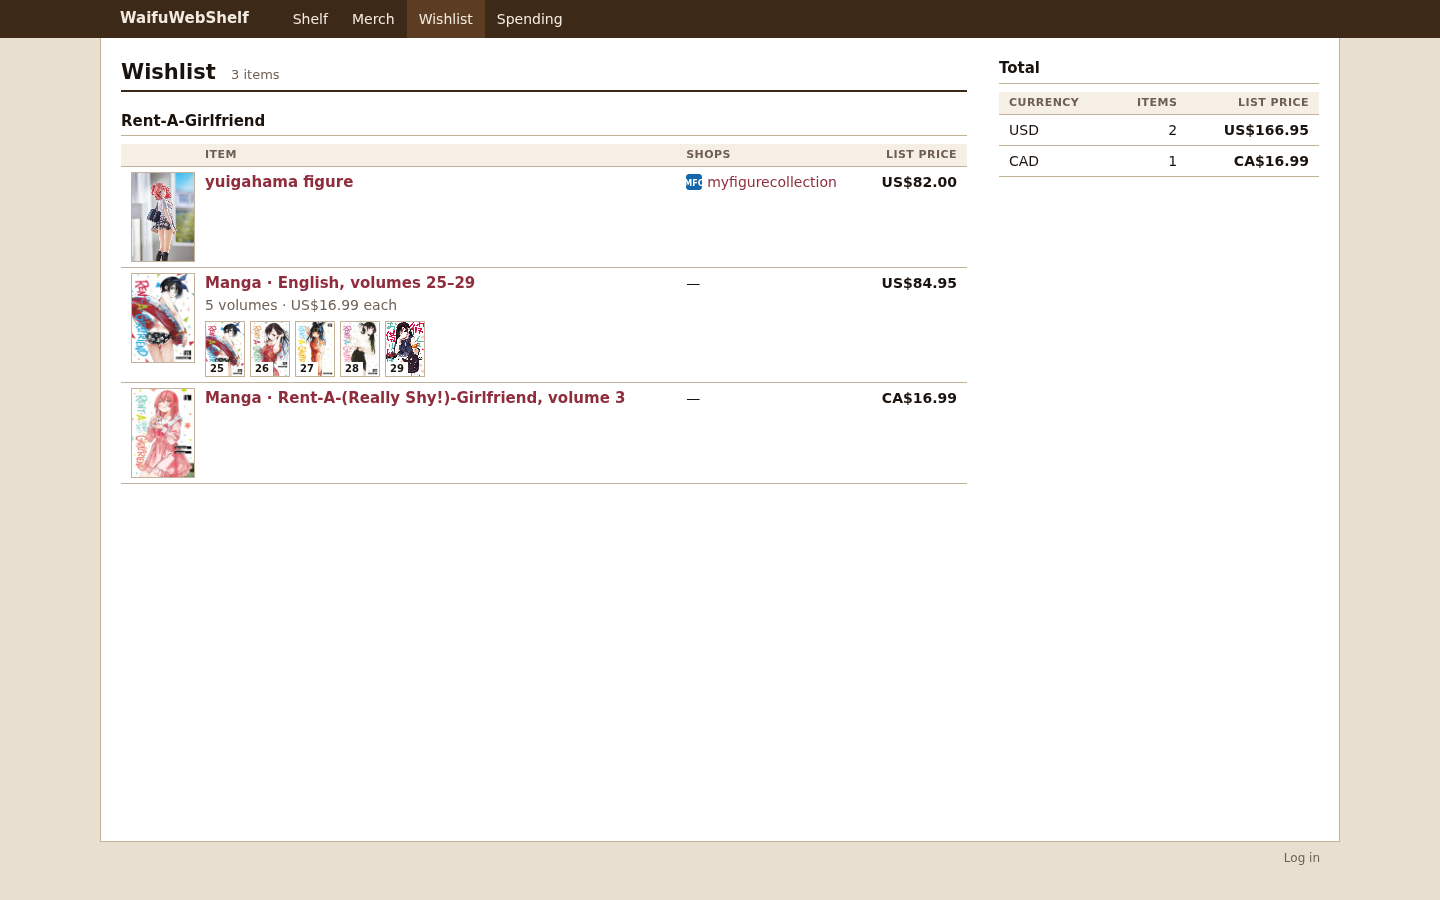
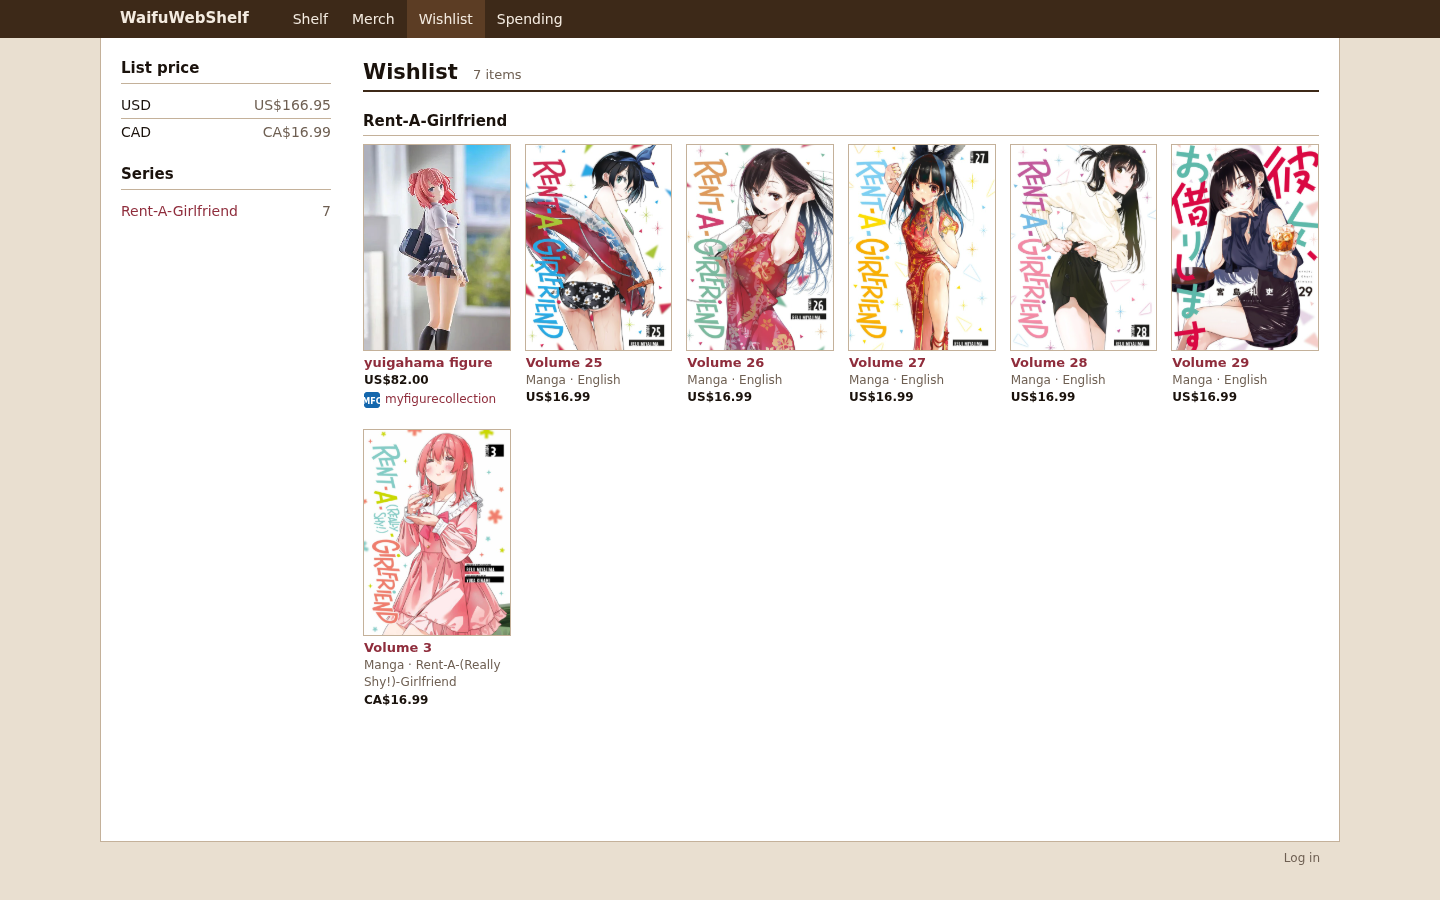
Show the wishlist as one grid of picture tiles
Each wanted volume and merch piece is the same size tile with its
name and list price under it. Totals and the series list sit in the
left column, as on series pages.

Changed region(s): [[0.0625, 0.0622, 0.9375, 0.7778], [0.25, 0.0622, 0.3438, 0.0933]]

diff --git a/templates/wishlist.html b/templates/wishlist.html
@@ -1,70 +1,98 @@
 {{define "wishlist"}}
 {{template "header" .}}
-<div class="cols">
-  <div>
-    <div class="box">
-      <div class="bar">
-        <h1>Wishlist <span class="count">{{.Data.Count}} {{if eq .Data.Count 1}}item{{else}}items{{end}}</span></h1>
-      </div>
-      {{if not .Data.Groups}}<p class="muted">Nothing on the list.</p>{{end}}
-    </div>
-    {{range .Data.Groups}}
-    <div class="box">
-      <div class="bar">
-        <h2><a href="/series/{{.SeriesSlug}}">{{.SeriesName}}</a></h2>
-        {{if $.SignedIn}}
-        <span>
-          <a href="/admin/series/{{.SeriesID}}/wishlist/new?kind=volumes">Add volume</a>
-          · <a href="/admin/series/{{.SeriesID}}/wishlist/new?kind=merch">Add merch</a>
-        </span>
-        {{end}}
-      </div>
-      <div class="table-wrap">
-        <table class="catalog wish-table">
-          <thead><tr><th></th><th>Item</th><th>Shops</th><th class="num">List price</th></tr></thead>
-          <tbody>
-            {{range .Items}}
-            <tr>
-              <td class="catalog-cover">
-                <a href="/wishlist/{{.ID}}">{{if .Picture}}<img src="{{imageURL .Picture}}" alt="" loading="lazy">{{else if eq .Kind "volumes"}}<span class="cover-text">Vol. {{.RemainLabel}}</span>{{else}}<span class="cover-letter">{{printf "%.1s" .Name}}</span>{{end}}</a>
-              </td>
-              <td>
-                {{if eq .Kind "merch"}}
-                <a class="name" href="/wishlist/{{.ID}}">{{.Name}}</a>
-                {{with merchSub .Name .MerchKind .Quantity}}<p class="muted">{{.}}</p>{{end}}
-                {{else}}
-                <a class="name" href="/wishlist/{{.ID}}">{{.LineTitle}}, {{.VolumesLabel}}</a>
-                {{if gt .RemainCount 1}}<p class="muted">{{.RemainCount}} volumes{{with .Each}} · {{.}} each{{end}}</p>{{end}}
-                {{if gt (len .Volumes) 1}}{{template "wish_volumes" .Volumes}}{{end}}
-                {{end}}
-                {{if .Notes}}<p class="notes muted">{{.Notes}}</p>{{end}}
-                {{if $.SignedIn}}<p><a href="/admin/wishlist/{{.ID}}/edit">Edit</a></p>{{end}}
-              </td>
-              <td>{{if .Links}}{{template "links_list" .Links}}{{else}}—{{end}}</td>
-              <td class="num strong">{{if .MSRPValid}}{{amount .MSRPAmount .Currency}}{{else}}—{{end}}</td>
-            </tr>
-            {{end}}
-          </tbody>
-        </table>
-      </div>
-    </div>
+<div class="cols rail-left">
+<aside class="rail">
+  {{if .Data.Totals}}
+  <div class="box">
+    <h2 class="bar">List price</h2>
+    <ul class="toc">
+      {{range .Data.Totals}}<li>{{.Currency}}<span>{{if .WithMSRP}}{{amount .MSRPCents .Currency}}{{else}}—{{end}}</span></li>{{end}}
+    </ul>
+    {{range .Data.Totals}}{{if .Incomplete}}<p class="note">{{.Currency}}: {{.MissingMSRP}} of {{.ItemCount}} have no list price.</p>{{end}}{{end}}
+  </div>
+  {{end}}
+  {{if .Data.Groups}}
+  <div class="box">
+    <h2 class="bar">Series</h2>
+    <ul class="toc">
+      {{range .Data.Groups}}<li><a href="#{{.SeriesSlug}}">{{.SeriesName}}</a><span>{{.Count}}</span></li>{{end}}
+    </ul>
+  </div>
+  {{end}}
+</aside>
+<div>
+<div class="box">
+  <div class="bar">
+    <h1>Wishlist <span class="count">{{.Data.Count}} {{if eq .Data.Count 1}}item{{else}}items{{end}}</span></h1>
+  </div>
+  {{if not .Data.Groups}}<p class="muted">Nothing on the list.</p>{{end}}
+</div>
+{{range .Data.Groups}}
+<div class="box" id="{{.SeriesSlug}}">
+  <div class="bar">
+    <h2><a href="/series/{{.SeriesSlug}}">{{.SeriesName}}</a></h2>
+    {{if $.SignedIn}}
+    <span>
+      <a href="/admin/series/{{.SeriesID}}/wishlist/new?kind=volumes">Add volume</a>
+      · <a href="/admin/series/{{.SeriesID}}/wishlist/new?kind=merch">Add merch</a>
+    </span>
     {{end}}
   </div>
 
-  {{if .Data.Totals}}
-  <aside class="rail">
-    <div class="box">
-      <h2 class="bar">Total</h2>
-      {{template "wish_money" .Data.Totals}}
+  <div class="card-grid wish-grid">
+    {{range .Items}}
+    {{$item := .}}
+    {{if eq .Kind "merch"}}
+    <div class="card">
+      <a class="cover" href="/wishlist/{{.ID}}">
+        {{if .ImagePath.Valid}}<img src="{{imageURL .ImagePath.String}}" alt="" loading="lazy">{{else}}<span class="cover-letter">{{printf "%.1s" .Name}}</span>{{end}}
+      </a>
+      <div class="card-body">
+        <h3><a href="/wishlist/{{.ID}}">{{.Name}}</a></h3>
+        {{with merchSub .Name .MerchKind .Quantity}}<p class="muted">{{.}}</p>{{end}}
+        {{if .MSRPValid}}<p class="price">{{amount .MSRPAmount .Currency}}</p>{{end}}
+        {{template "links_list" .Links}}
+        {{if $.SignedIn}}<p><a href="/admin/wishlist/{{.ID}}/edit">Edit</a></p>{{end}}
+      </div>
     </div>
-  </aside>
-  {{end}}
+    {{else}}
+    {{range .Volumes}}
+    <div class="card">
+      <a class="cover" href="/wishlist/{{$item.ID}}">
+        {{if .Cover}}<img src="{{imageURL .Cover}}" alt="" loading="lazy">{{else}}<span class="cover-text">Vol. {{.Number}}</span>{{end}}
+      </a>
+      <div class="card-body">
+        <h3><a href="/wishlist/{{$item.ID}}">Volume {{.Number}}</a></h3>
+        <p class="muted">{{$item.LineTitle}}</p>
+        {{with $item.UnitPrice}}<p class="price">{{.}}</p>{{end}}
+        {{template "links_list" $item.Links}}
+        {{if $.SignedIn}}<p><a href="/admin/wishlist/{{$item.ID}}/edit">Edit</a></p>{{end}}
+      </div>
+    </div>
+    {{else}}
+    <div class="card">
+      <a class="cover" href="/wishlist/{{.ID}}"><span class="cover-text">Vol. {{.RemainLabel}}</span></a>
+      <div class="card-body">
+        <h3><a href="/wishlist/{{.ID}}">Volume {{.RemainLabel}}</a></h3>
+        <p class="muted">{{.LineTitle}}</p>
+        {{with .UnitPrice}}<p class="price">{{.}}</p>{{end}}
+      </div>
+    </div>
+    {{end}}
+    {{end}}
+    {{end}}
+  </div>
+</div>
+{{end}}
+</div>
 </div>
 {{template "footer" .}}
 {{end}}
 
 {{define "wish_volumes"}}
-<ul class="mini-covers">
-  {{range .}}<li>{{if .Cover}}<img src="{{imageURL .Cover}}" alt="" loading="lazy">{{end}}<span>{{.Number}}</span></li>{{end}}
-</ul>
+<ol class="vol-grid">
+  {{range .}}
+  <li><span class="vol-cell wish" title="Volume {{.Number}}">{{if .Cover}}<img src="{{imageURL .Cover}}" alt="" loading="lazy">{{end}}<span class="vol-num">{{.Number}}</span></span></li>
+  {{end}}
+</ol>
 {{end}}

diff --git a/static/style.css b/static/style.css
@@ -271,12 +271,14 @@ a.vol-cell.missing:hover, a.vol-cell.wanted:hover { border-color: var(--bar); co
 .wanted-heading { margin: 16px 0 8px; }
 
 /* Wishlist */
-.wish-table .catalog-cover img, .wish-table .catalog-cover .cover-letter, .wish-table .catalog-cover .cover-text { width: 64px; height: 90px; }
-.wish-table .name { font-size: 15px; font-weight: 700; }
-.mini-covers { list-style: none; display: flex; flex-wrap: wrap; gap: 5px; margin: 6px 0 0; padding: 0; }
-.mini-covers li { position: relative; width: 40px; height: 56px; display: grid; place-items: center; overflow: hidden; background: var(--soft); border: 1px solid var(--line); color: var(--muted); font-size: 12px; font-weight: 700; }
-.mini-covers img { position: absolute; inset: 0; width: 100%; height: 100%; object-fit: cover; }
-.mini-covers img + span { position: absolute; left: 0; bottom: 0; padding: 0 4px; background: var(--paper); color: var(--ink); font-size: 10px; line-height: 14px; }
+.wish-grid { grid-template-columns: repeat(auto-fill, minmax(132px, 1fr)); gap: 16px 14px; }
+.wish-grid .cover { aspect-ratio: 5 / 7; border: 1px solid var(--line); }
+.wish-grid .cover:hover { border-color: var(--bar); }
+.card-body .price { font-weight: 700; font-variant-numeric: tabular-nums; }
+.vol-cell.wish { background: #f6e9b8; color: var(--wanted-ink); border-color: var(--wanted); }
+.vol-cell.wish img + .vol-num { position: absolute; left: 0; bottom: 0; min-width: 20px; padding: 0 4px; background: var(--wanted); color: var(--wanted-ink); font-size: 11px; line-height: 16px; text-align: center; }
+.card .ext-links { margin: 2px 0 0; font-size: 12px; }
+.detail .vol-grid { max-width: 480px; margin: 8px 0; }
 .cover-list { list-style: none; display: flex; flex-wrap: wrap; gap: 10px 16px; margin: 0 0 12px; padding: 0; }
 .cover-list li { display: flex; align-items: center; gap: 8px; }
 

diff --git a/internal/web/wishlist.go b/internal/web/wishlist.go
@@ -49,6 +49,14 @@ func (v WishView) Each() string {
 	return money.Display(v.MSRPCents.Int64, v.Currency)
 }
 
+// UnitPrice is the list price of one volume or one merch piece.
+func (v WishView) UnitPrice() string {
+	if !v.MSRPCents.Valid {
+		return ""
+	}
+	return money.Display(v.MSRPCents.Int64, v.Currency)
+}
+
 func (v *WishView) applyCovers(covers map[string]string) {
 	v.Volumes = nil
 	for _, n := range v.Remain.Numbers {
@@ -188,6 +196,17 @@ func (s *Server) activeWishViews(rows []db.WishlistRow) ([]WishView, error) {
 	return out, nil
 }
 
+// Count is how many volumes and merch pieces the group still wants.
+func (g WishGroup) Count() int { return wishCount(g.Items) }
+
+func wishCount(items []WishView) int {
+	n := 0
+	for _, item := range items {
+		n += item.RemainCount
+	}
+	return n
+}
+
 func groupWishViews(items []WishView) []WishGroup {
 	var groups []WishGroup
 	for _, item := range items {
@@ -262,7 +281,7 @@ func (s *Server) wishlist(w http.ResponseWriter, r *http.Request) {
 	}
 	s.render(w, r, "wishlist", "Wishlist", map[string]any{
 		"Groups": groupWishViews(items),
-		"Count":  len(items),
+		"Count":  wishCount(items),
 		"Totals": wishMoneyTotals(items),
 	})
 }

diff --git a/internal/web/flow_test.go b/internal/web/flow_test.go
@@ -210,7 +210,7 @@ func TestPublicAndAdminFlow(t *testing.T) {
 		t.Fatalf("want merch %d", res.StatusCode)
 	}
 	wish := mustOK("/wishlist")
-	if !strings.Contains(wish, "Holo 1/7") || !strings.Contains(wish, "2–3") {
+	if !strings.Contains(wish, "Holo 1/7") || !strings.Contains(wish, "Volume 2") || !strings.Contains(wish, "Volume 3") {
 		t.Fatalf("wishlist page:\n%s", wish)
 	}
 	stats = mustOK("/stats")
